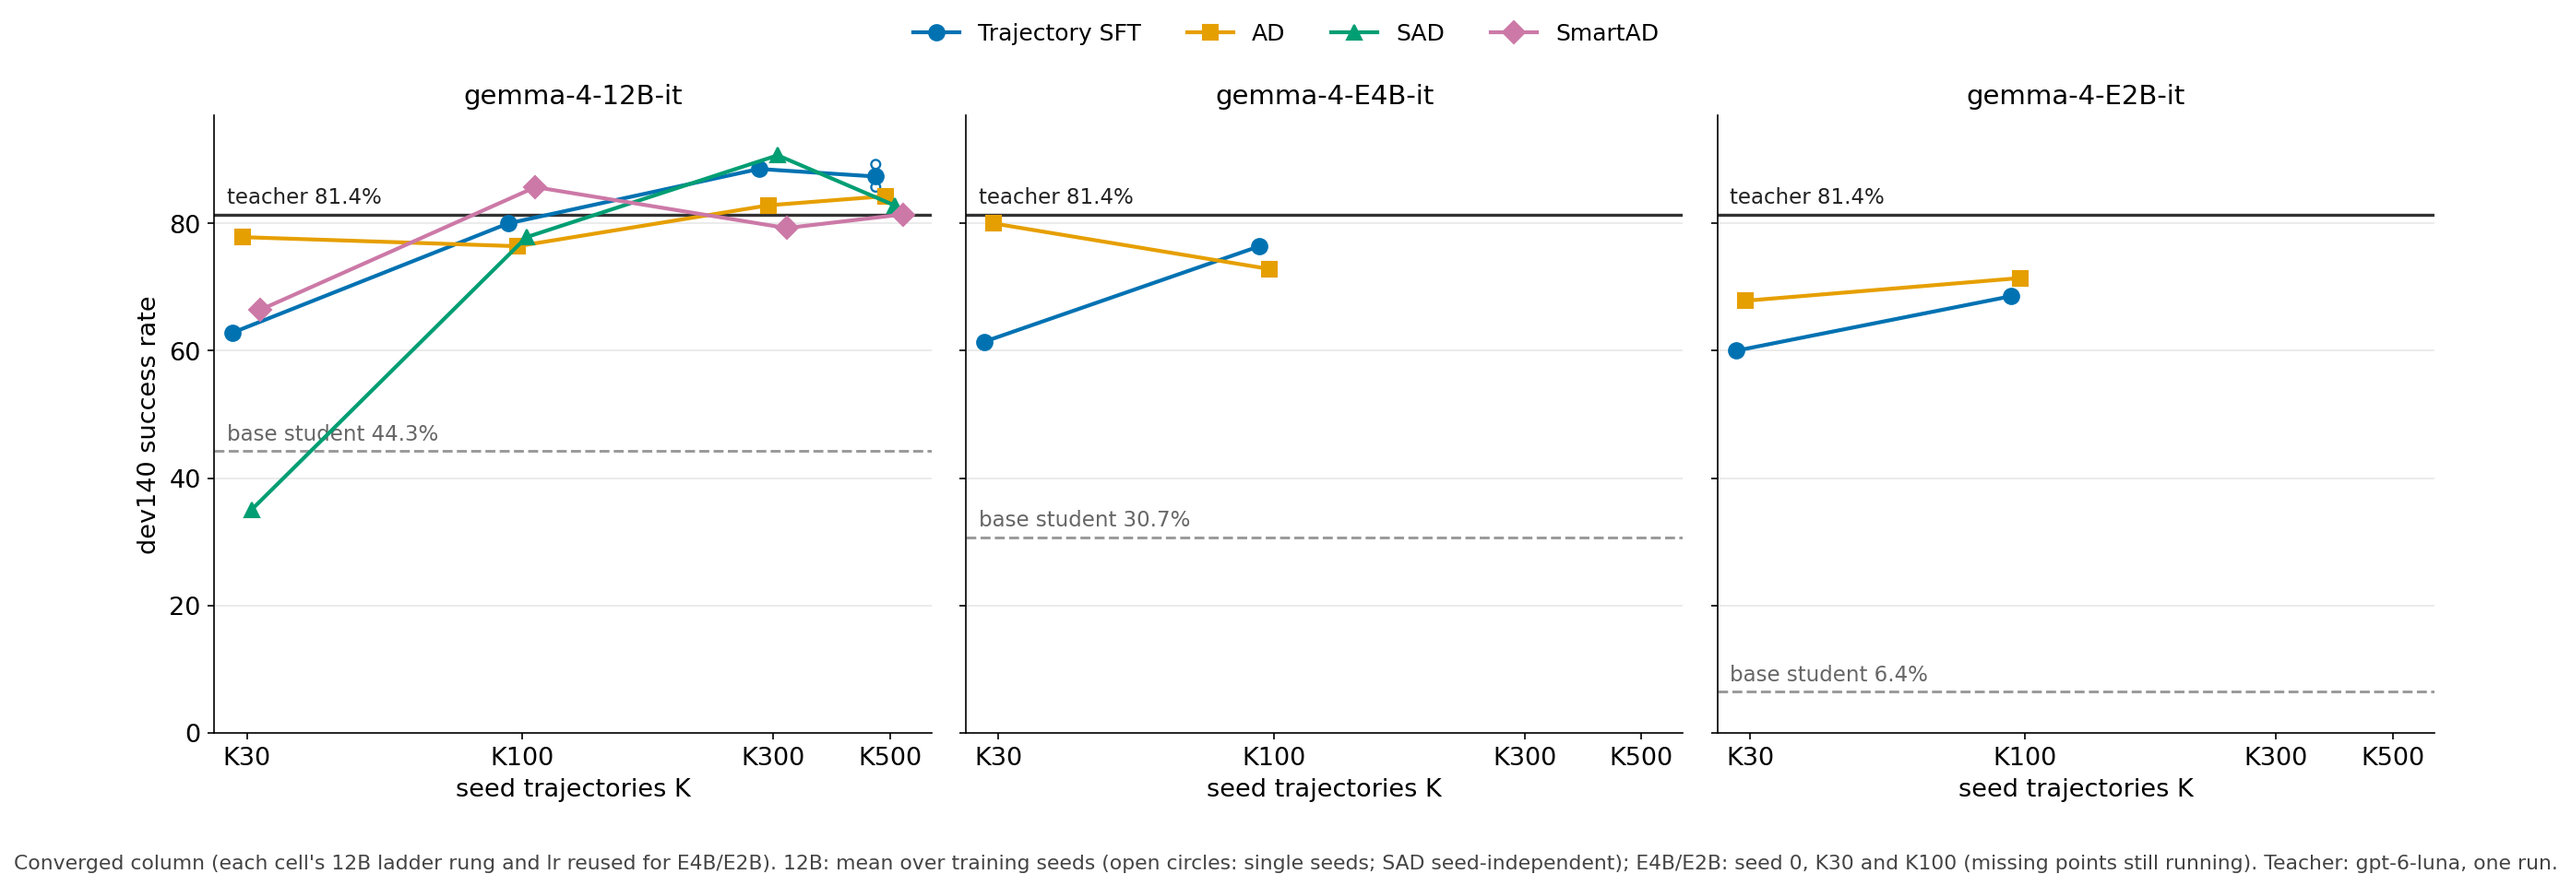
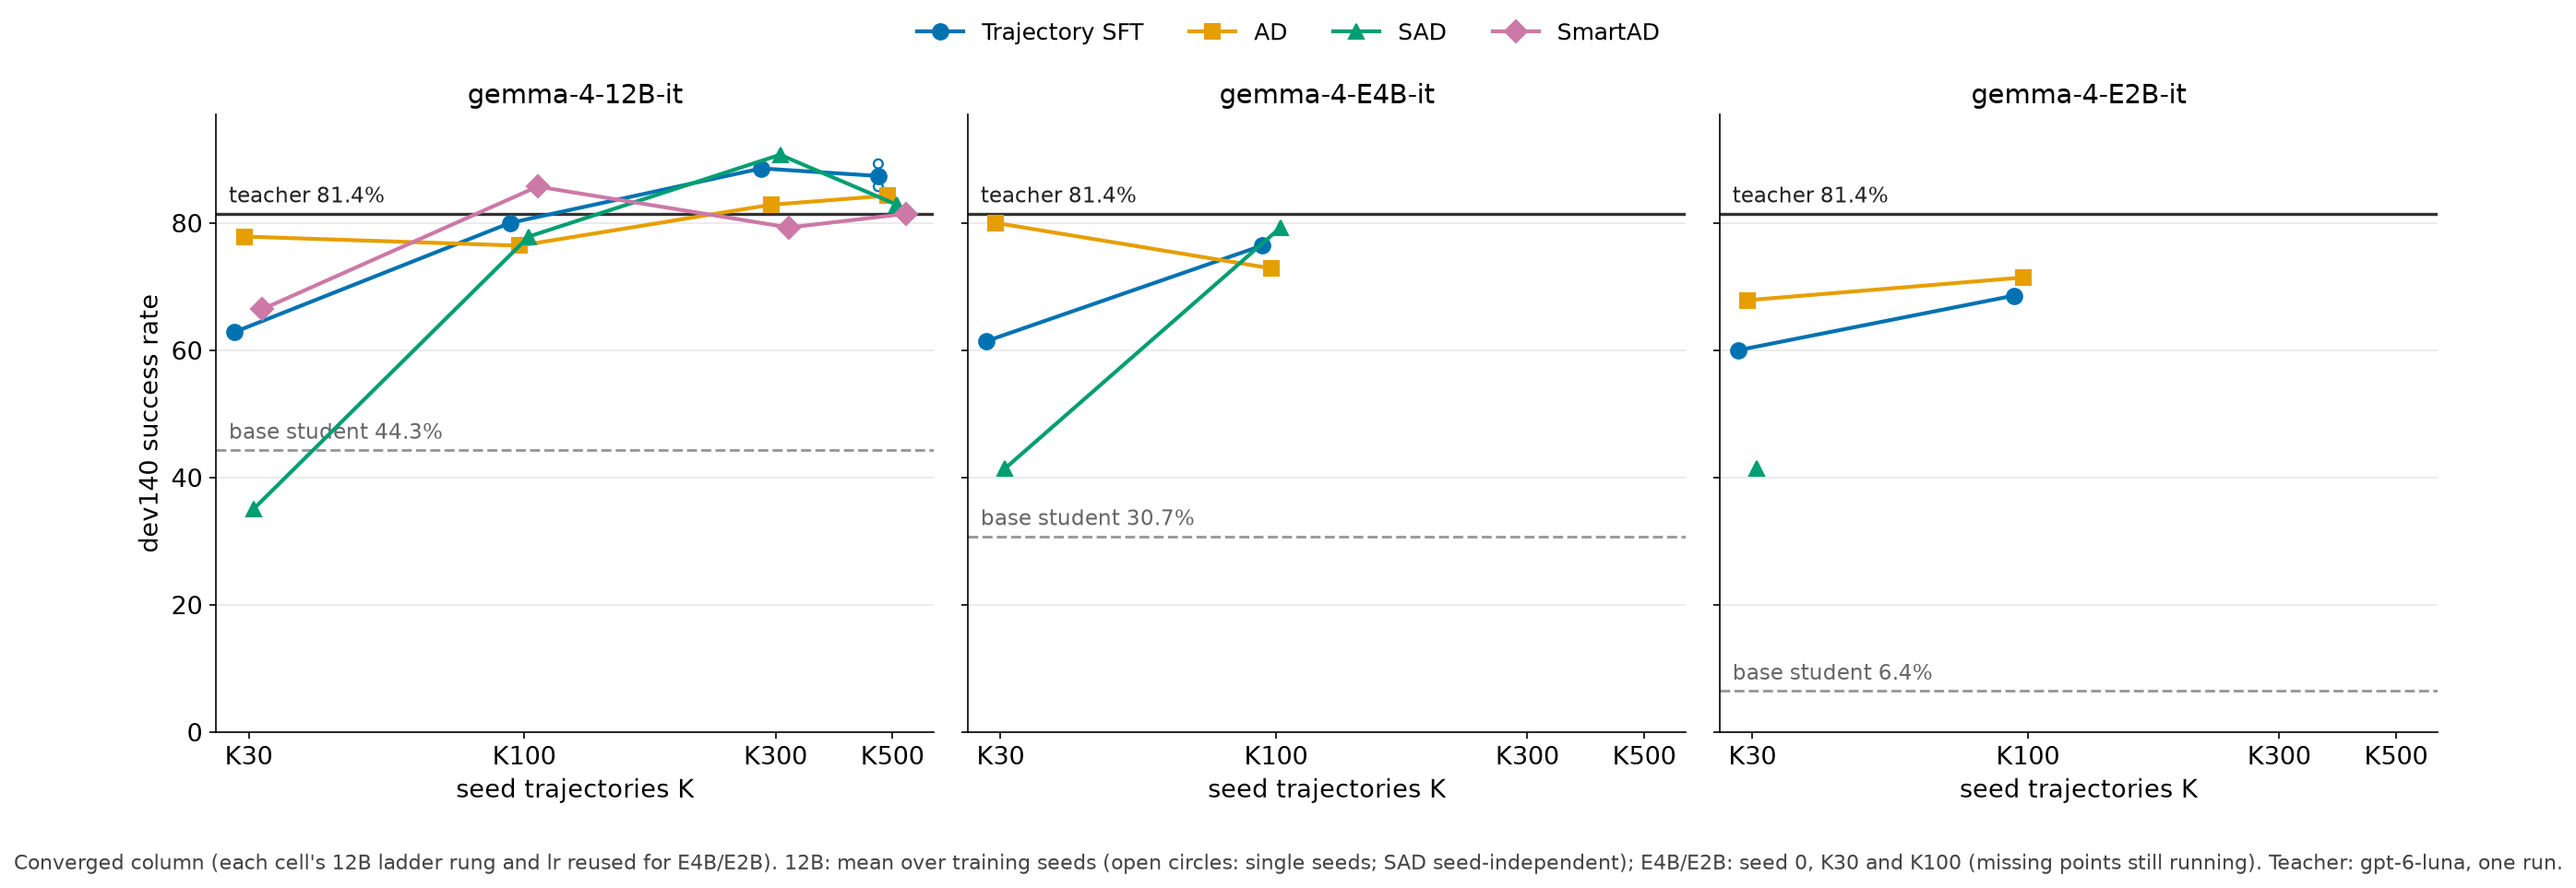
Results: E-series SAD K30/K100 dev140 evals; three-panel figure updated

diff --git a/notes/exp_log.md b/notes/exp_log.md
@@ -318,3 +318,6 @@ agentgym-k2s0 direct eval | old-tree eval-iter-2 failed (overflow) after full tr
 - 10-25 02:5x-05:37 CDT | e4b/e2b-sadc-k30-b1-train 47607392/47607395 (SAD K30 b1, tree c265b5d) | hpg B200 | COMPLETED 2:09 / 1:52; 5 checkpoints 1of16..1of1, 655M token positions; loss 58.3->0.0 / 81.3->0.0 (no collapse) | reports/runs/baselines/e{4,2}b-sadc-k30-b1
 - 10-25 04:38-05:47 CDT | e4b-sadc-k100-b05-train 47613033 (SAD K100 b05, tree 96209eb) | hpg B200 | COMPLETED 1:09; 328M token positions; loss 170.9->0.0002 | reports/runs/baselines/e4b-sadc-k100-b05
 - 10-25 03:44-08:40 CDT | ops incident | rai | relay deadlock of the hpg+loni ssh ControlMasters (opposite-direction tar relays); misread as a tunnel outage; fixed by stopping loni_cold_move; LONI legs now direct (smc_loni2.sh, sync_loni_hpg_v3.sh)
+- 10-25 08:43-09:17 CDT | e4b-sadc-k30-b1-eval 47647806 (SAD K30 b1, gemma-4-E4B-it, 1of1 checkpoint, tree 17eec0d) | hpg B200 | dev140 58/140 (41.4%; look 3/13, place 20/35, clean 15/27, cool 6/25, heat 8/16, two 6/24); serving check passed; 0 parser/overflow/failed calls
+- 10-25 08:43-09:16 CDT | e4b-sadc-k100-b05-eval 47647815 (SAD K100 b05, gemma-4-E4B-it, tree 17eec0d) | hpg B200 | dev140 111/140 (79.3%; look 11/13, place 32/35, clean 22/27, cool 16/25, heat 11/16, two 19/24); serving check passed
+- 10-25 08:43-09:13 CDT | e2b-sadc-k30-b1-eval 47647841 (SAD K30 b1, gemma-4-E2B-it, tree 17eec0d) | hpg B200 | dev140 58/140 (41.4%; look 4/13, place 26/35, clean 11/27, cool 3/25, heat 7/16, two 7/24); serving check passed

diff --git a/PROJECT_STATE.md b/PROJECT_STATE.md
@@ -17,6 +17,13 @@ code), PivotOPD (recovery, code soon), FutureBridge (needs logits). P1 preview: 
 each way (T-only 9–17, S-only 8–15) → need a teacher re-run for teacher self-disagreement.
 
 ## RUNNING JOBS
+### 09:2x CDT 10-25 — E-series SAD evals: K30 fails at every size, K100 matches 12B
+- dev140 (seed 0, converged rungs of 12B; teacher 114): SAD K30 12B 49 / E4B 58 / E2B 58; SAD K100 12B 109 / E4B 111
+  (E2B K100 training 47648041 running). McNemar: E4B/E2B SAD30 vs 12B p=.27/.25; E4B SAD100 vs 12B p=.85; E4B SAD100
+  vs SAD30 58/5 p=2e-12; SAD30 vs tsft30 E4B 15/43 p=.0003, E2B 13/39 p=.0004; E4B SAD30 vs base 31/16 p=.04.
+  Reading: SAD's K30 failure is data-scale, not capacity; at K100 SAD is the best E4B cell (111 vs AD 102 p=.11, tsft 107).
+- variant_scores.json + student_variants.png regenerated (SmartAD E-series + E2B SAD K100 still missing).
+
 ### 08:4x CDT 10-25 — the "tunnel outage" was my relay deadlock; hpg back, keeper resuming
 - Correction: the tunnel never dropped. smc_loni.sh e4b (`ssh hpg tar | ssh loni tar`, from 03:44) and
   scripts/ops/loni_cold_move.sh (`ssh loni tar | throttle | ssh hpg tar`) ran in opposite directions through the hpg and
